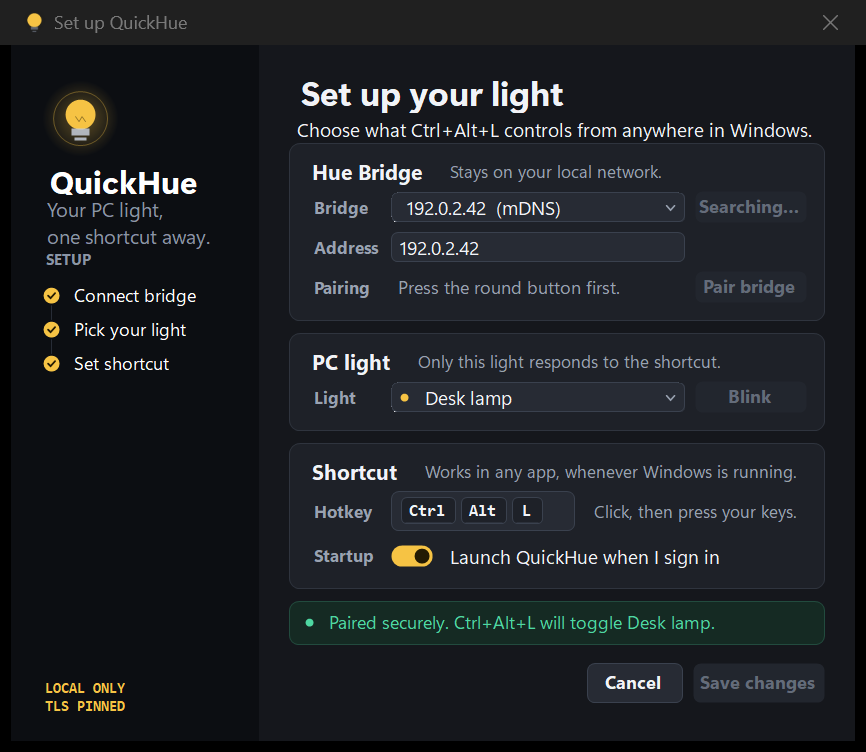
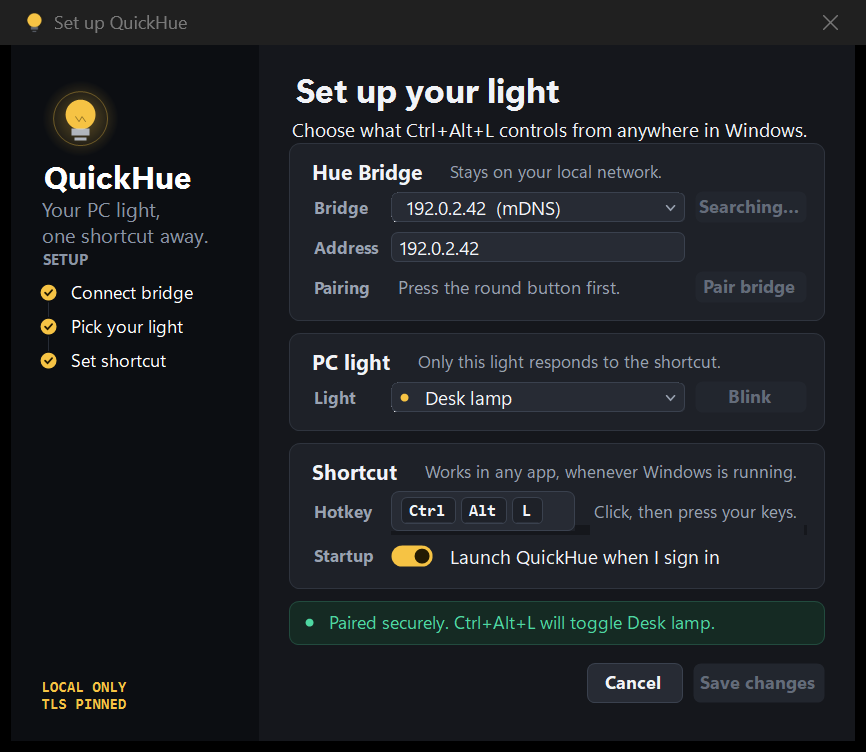
Alignment

Changed region(s): [[0.0312, 0.2141, 0.2494, 0.4894], [0.343, 0.0918, 0.9353, 0.1835], [0.0312, 0.887, 0.1559, 0.9481]]

diff --git a/src/QuickHue/SetupForm.cs b/src/QuickHue/SetupForm.cs
@@ -158,7 +158,9 @@ internal sealed class SetupForm : Form
             Text = "QuickHue",
             Dock = DockStyle.Fill,
             Font = Theme.Display(16F, FontStyle.Bold),
-            TextAlign = ContentAlignment.MiddleLeft
+            TextAlign = ContentAlignment.MiddleLeft,
+            Margin = Padding.Empty,
+            UseCompatibleTextRendering = true
         };
         layout.Controls.Add(wordmark);
 
@@ -167,7 +169,9 @@ internal sealed class SetupForm : Form
             Text = "Your PC light,\none shortcut away.",
             Dock = DockStyle.Fill,
             Font = Theme.Text(10F),
-            TextAlign = ContentAlignment.TopLeft
+            TextAlign = ContentAlignment.TopLeft,
+            Margin = Padding.Empty,
+            UseCompatibleTextRendering = true
         };
         layout.Controls.Add(tagline);
 
@@ -177,11 +181,13 @@ internal sealed class SetupForm : Form
             Dock = DockStyle.Fill,
             Font = Theme.Text(7.5F, FontStyle.Bold),
             TextAlign = ContentAlignment.BottomLeft,
+            Margin = Padding.Empty,
             Padding = new Padding(0, 0, 0, 6)
         };
         layout.Controls.Add(stepsCaption);
 
         _steps.Dock = DockStyle.Fill;
+        _steps.Margin = Padding.Empty;
         _steps.AccessibleName = "Setup progress";
         layout.Controls.Add(_steps);
 
@@ -192,7 +198,9 @@ internal sealed class SetupForm : Form
             Text = "LOCAL ONLY\nTLS PINNED",
             Dock = DockStyle.Fill,
             Font = Theme.Mono(7.5F, FontStyle.Bold),
-            TextAlign = ContentAlignment.BottomLeft
+            TextAlign = ContentAlignment.BottomLeft,
+            Margin = Padding.Empty,
+            UseCompatibleTextRendering = true
         };
         layout.Controls.Add(trust, 0, 6);
 
@@ -255,11 +263,15 @@ internal sealed class SetupForm : Form
             ForeColor = Theme.Colors.Ink,
             Font = Theme.Display(17F, FontStyle.Bold),
             TextAlign = ContentAlignment.MiddleLeft,
+            Margin = Padding.Empty,
+            UseCompatibleTextRendering = true,
             Name = "Heading"
         });
         _subtitle.Dock = DockStyle.Fill;
         _subtitle.Font = Theme.Text(9.5F);
         _subtitle.TextAlign = ContentAlignment.TopLeft;
+        _subtitle.Margin = Padding.Empty;
+        _subtitle.UseCompatibleTextRendering = true;
         _subtitle.Padding = new Padding(0, 3, 0, 0);
         header.Controls.Add(_subtitle);
         return header;
